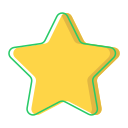
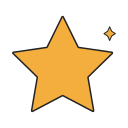
颜色

diff --git a/miniprogram/pages/profile/profile.js b/miniprogram/pages/profile/profile.js
@@ -11,8 +11,8 @@ Page({
     hasUserInfo: false,
     canIUse: wx.canIUse('button.open-type.getUserInfo'),
     menuitems: [
-      { text: '收藏题目', url: '../star_doc/star_doc', icon: '../../images/shoucang.png', tips: '' },
-      { text: '收藏文档', url: '../star_timu/star_timu', icon: '../../images/shoucang.png', tips: '' },
+      { text: '收藏文档', url: '../star_doc/star_doc', icon: '../../images/star.png', tips: '' },
+      { text: '收藏题目', url: '../star_timu/star_timu', icon: '../../images/shoucang.png', tips: '' },
       { text: '上传题目', url: '../shangchuan_timu/shangchuan_timu', icon: '../../images/wendang.png', tips: '' },
       { text: '上传文档', url: '../shangchuan_doc/shangchuan_doc', icon: '../../images/wenjian.png', tips: '' },
       { text: '我的动态', url: '../history_dongtai/history_dongtai', icon: '../../images/lishi.png', tips: '' },

diff --git a/miniprogram/pages/publish/publish.js b/miniprogram/pages/publish/publish.js
@@ -198,5 +198,10 @@ Page({
    */
   onShareAppMessage: function() {
 
+  },
+  onLoad:function(){
+    wx.setNavigationBarTitle({
+      title: '发布动态',
+    })
   }
 })
